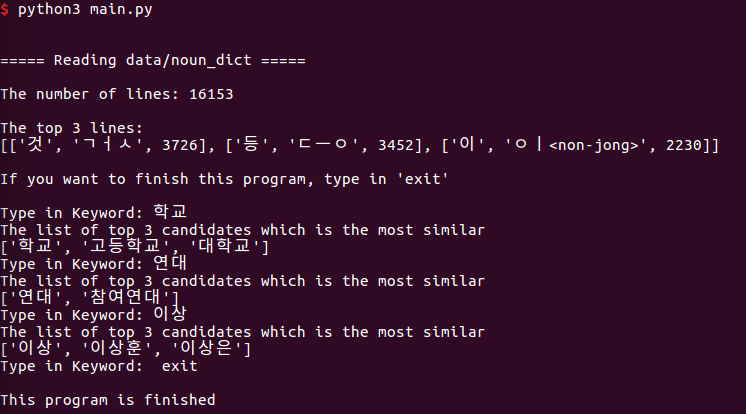
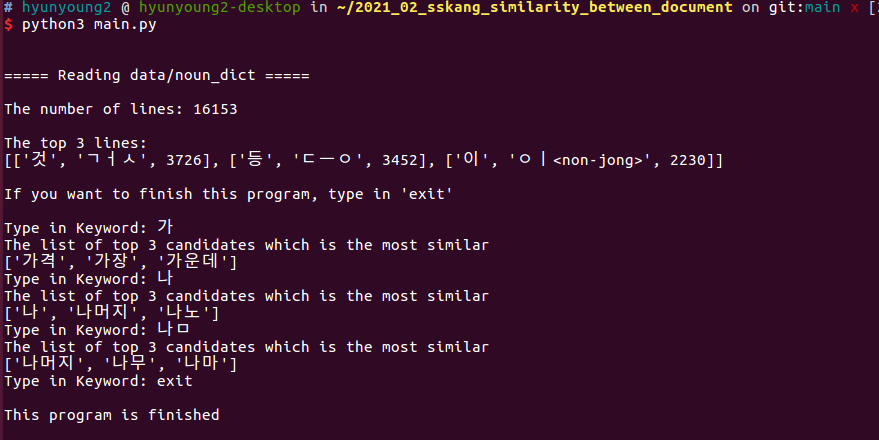
change the algorithm

Changed region(s): [[0.0, 0.4928, 0.6475, 0.9855], [0.0, 0.0, 1.0, 0.4638], [0.8941, 0.3188, 0.9866, 0.3768]]

diff --git a/main.py b/main.py
@@ -65,7 +65,7 @@ def generate_completeness(data, noun_dict):
     for idx, val in enumerate(noun_dict):
         if len(val[1]) < len(input_keyword):
             continue
-        elif input_keyword in val[1]:
+        elif input_keyword == val[1][:len(input_keyword)]:
             ranked_list.append(val[0])
                      
         if len(ranked_list) == 3:
